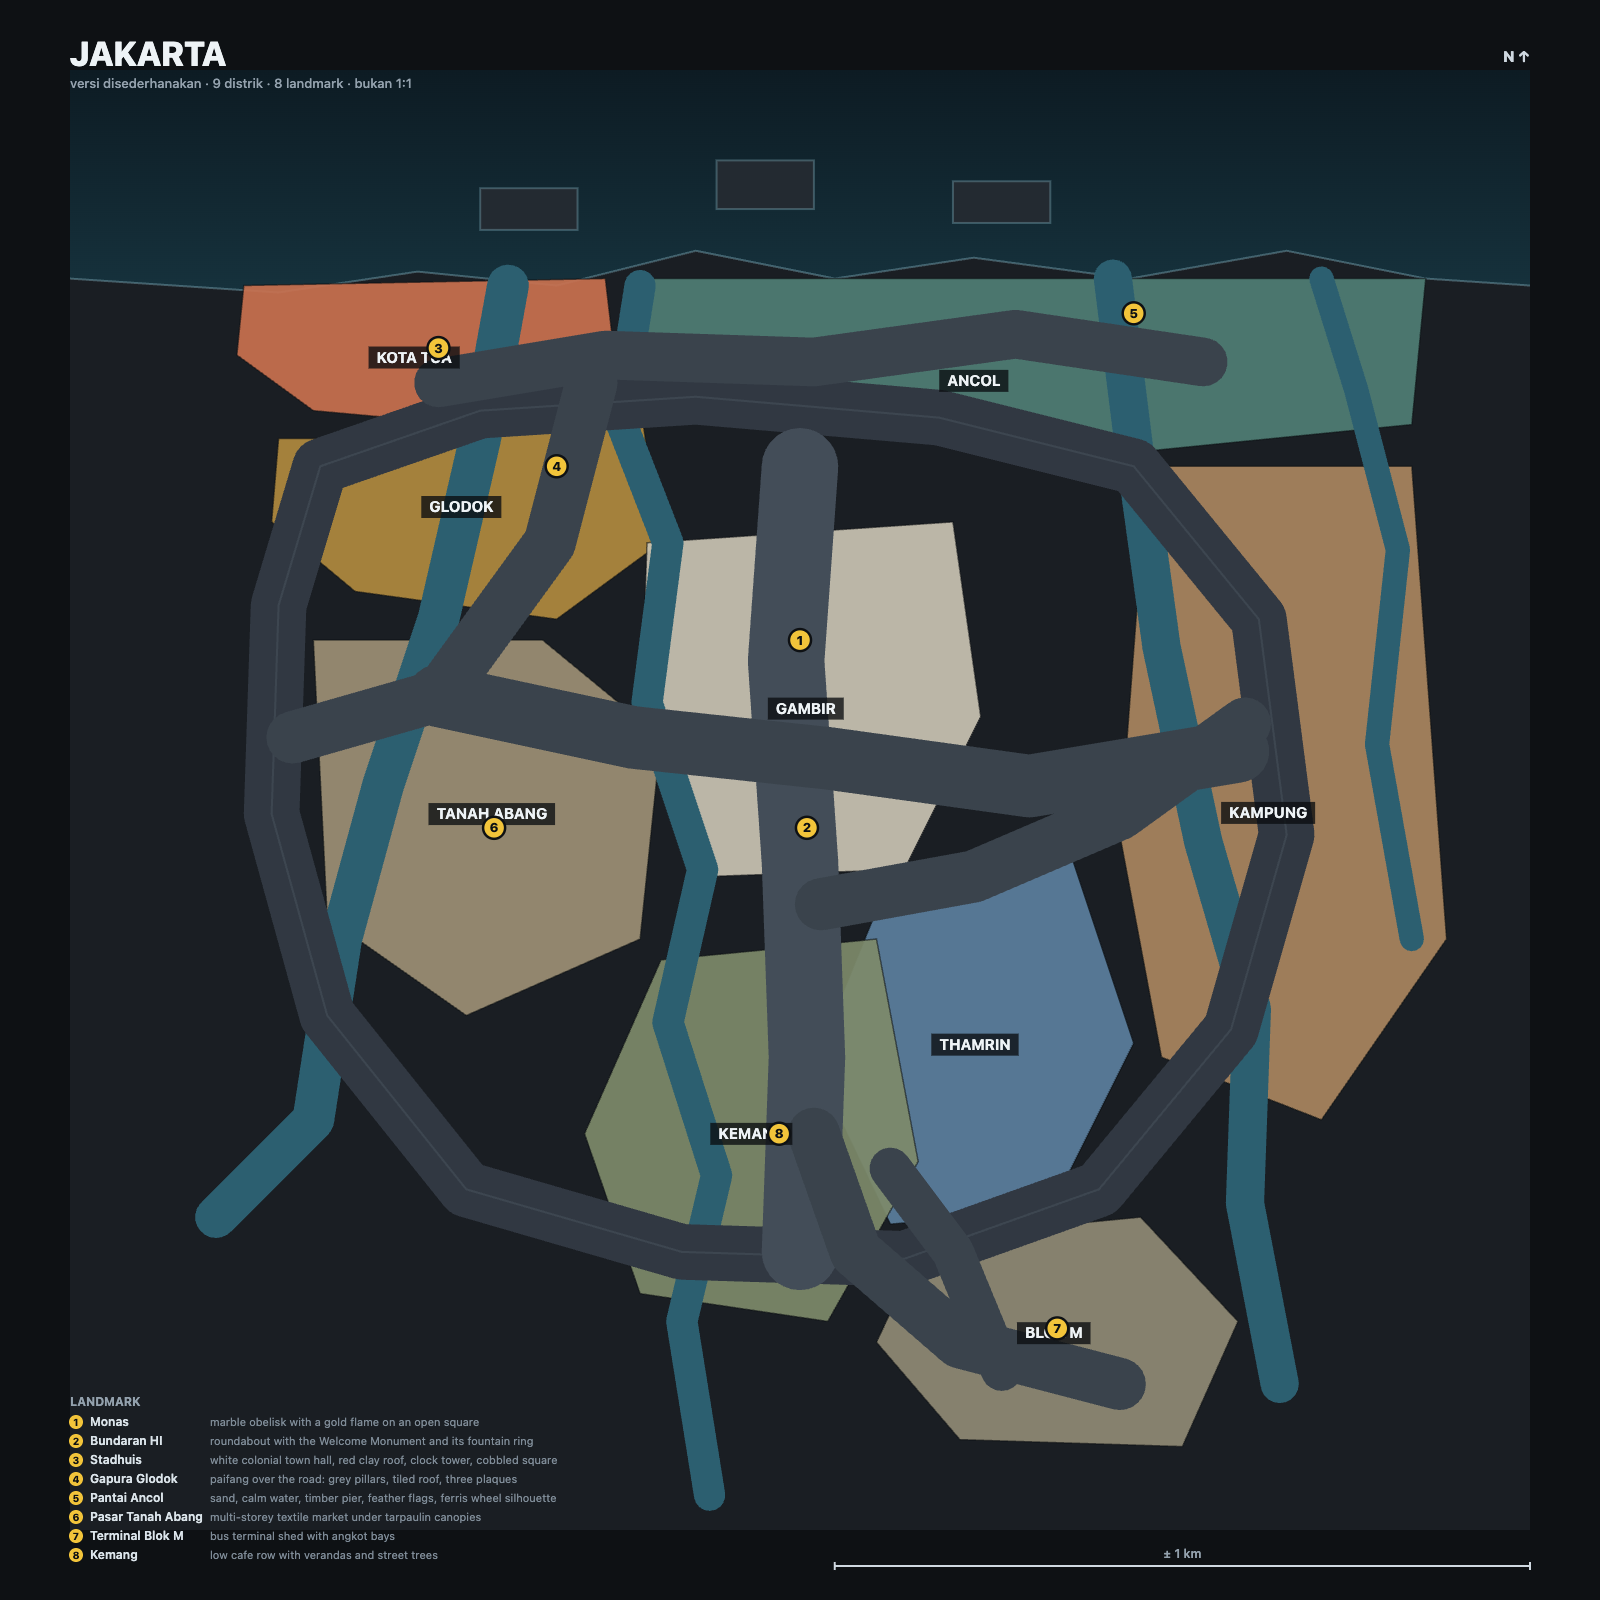
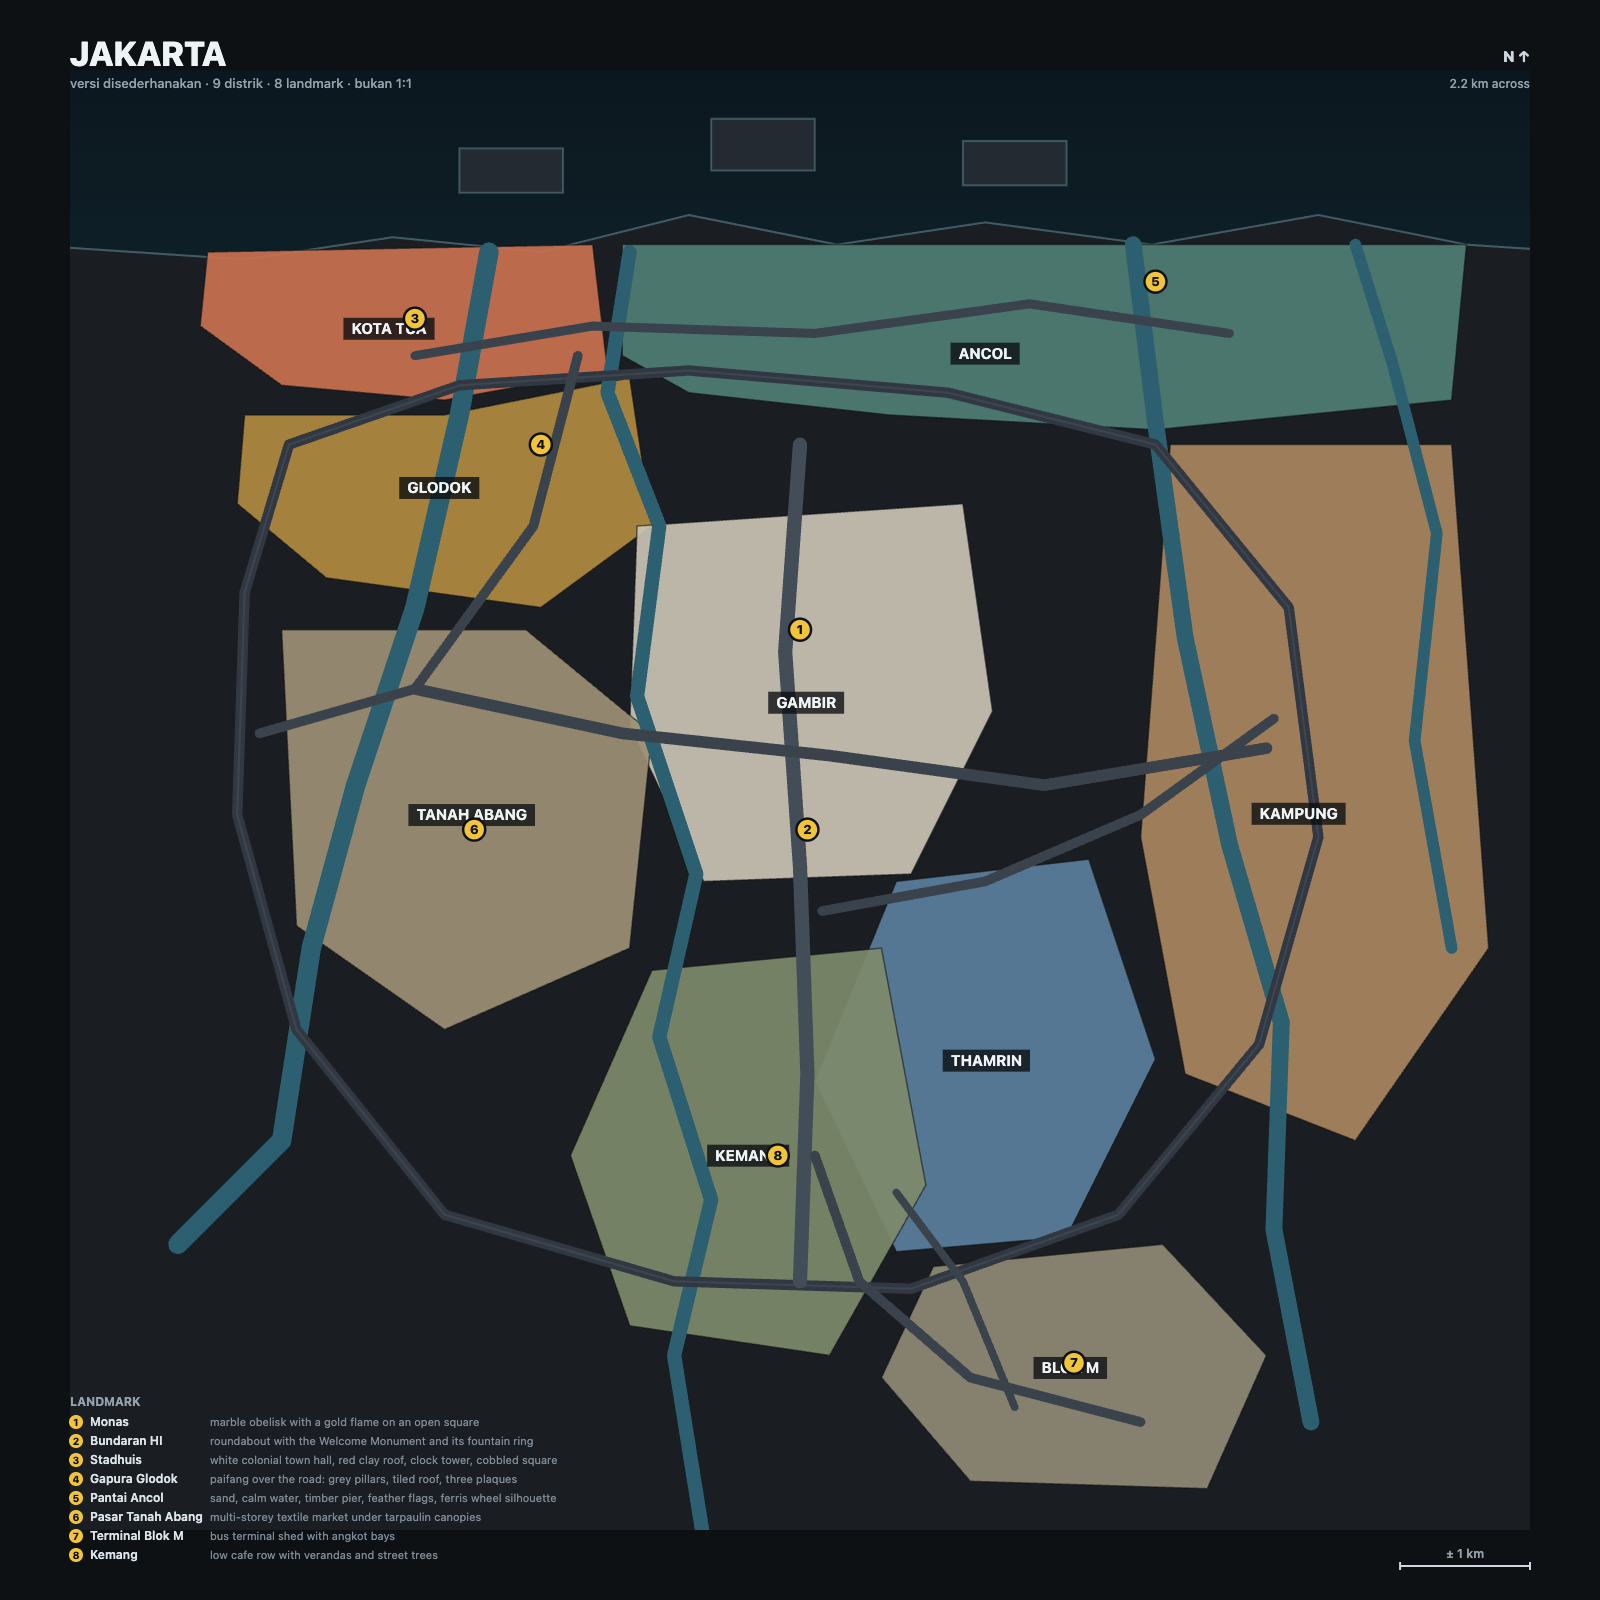
fix(world): spawn into the new city, and show the map at its real size
getSpawn still returned the old lattice point (PITCH/2), which in the 2.5 km city lands in a hole with nothing within 180 m. The player now starts on the Thamrin-Sudimran spine just north of Bundaran HI.

The save schema is bumped to 2 so a position recorded in the 380 m city cannot drop the player into an empty field. The map poster auto-fits its extent from the geometry and prints the real width instead of assuming the old 210 m sketch.

Changed region(s): [[0.0938, 0.0938, 0.9375, 0.9688], [0.5625, 0.625, 0.6562, 0.6875], [0.3438, 0.5938, 0.375, 0.625]]

diff --git a/src/world/city.ts b/src/world/city.ts
@@ -1814,8 +1814,16 @@ export class City {
     });
   }
 
+  /**
+   * Start on the Thamrin-Sudirman spine just north of Bundaran HI: a real street in the
+   * dense part of the map, so the first thing the player sees is the city, not a field.
+   */
   getSpawn() {
-    return new THREE.Vector3(PITCH * 0.5, 0, PITCH * 0.5 + 4);
+    const spine = ARTERIALS[0].path;
+    const [ax, az] = spine[1];
+    const [bx, bz] = spine[2];
+    const t = 0.55;
+    return new THREE.Vector3(ax + (bx - ax) * t + 3, 0, az + (bz - az) * t);
   }
 
   // sidewalk plate height (blocks sit ~26cm above the asphalt)

diff --git a/src/core/save.ts b/src/core/save.ts
@@ -12,7 +12,10 @@
 
 export const SAVE_KEY = 'dta.save.v1';
 export const SETTINGS_KEY = 'dta.settings.v1';
-export const SAVE_VERSION = 1;
+// 2: the world was rescaled from 380 m to 2.5 km, so a save made in the old city would drop
+// the player into an empty field. Bumping the version discards the position (and only the
+// position that matters: settings live under their own key).
+export const SAVE_VERSION = 2;
 export const SETTINGS_VERSION = 1;
 
 /** Objective progress, same shape as the `flags` record in main.ts. */
